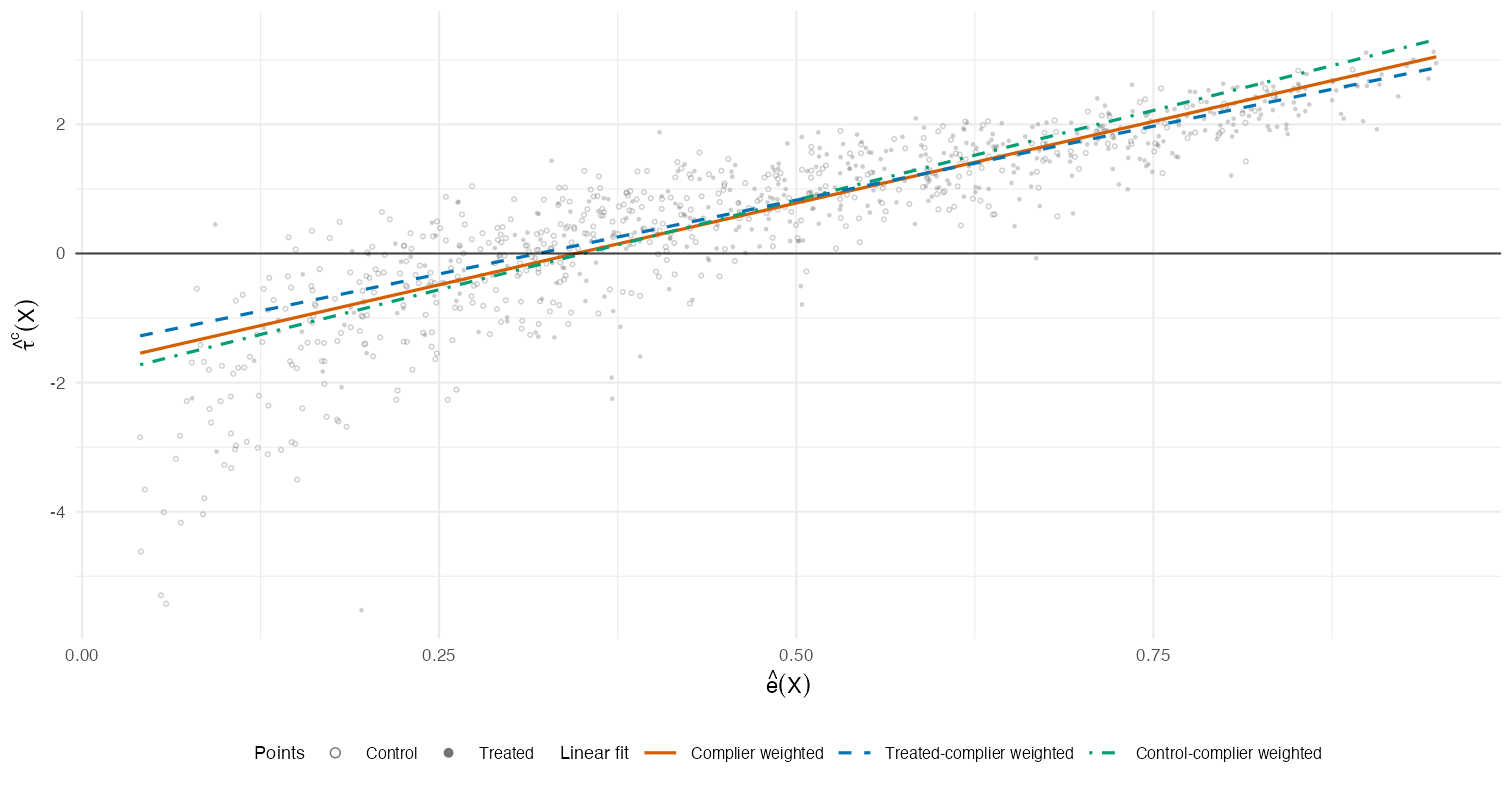
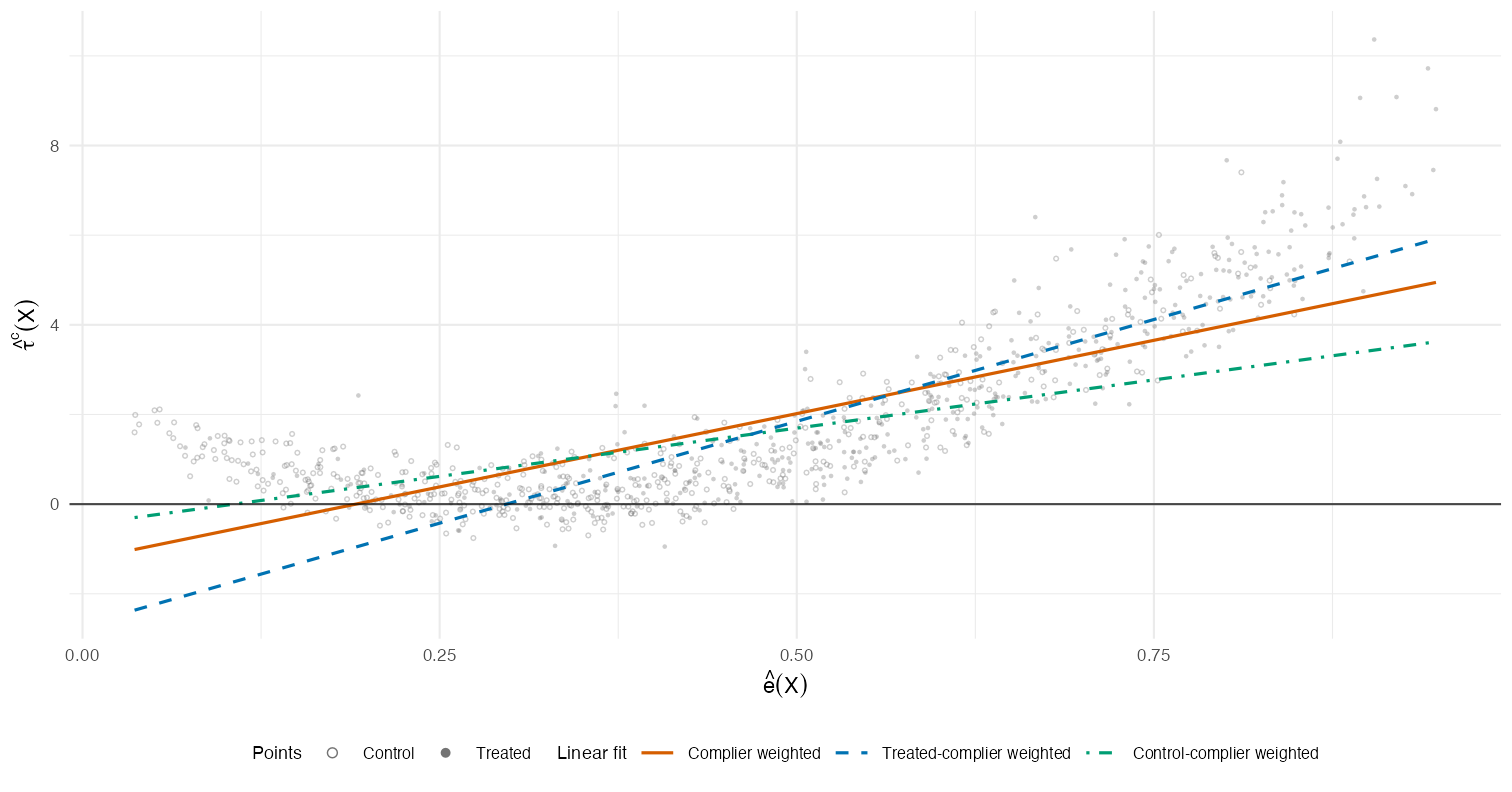
Improve API examples and site plots

diff --git a/docs/index.html b/docs/index.html
@@ -78,20 +78,22 @@ library(CPplot)</code></pre>
             If <code>y</code> is the outcome, <code>z</code> is the binary
             treatment, and <code>x</code> is a covariate, a CP plot can be
             drawn with <code>cp_plot(y ~ z + x, data = df)</code>. The example
-            below uses two covariates in the same way.
+            below uses three covariates in the same way.
           </p>
           <div class="tutorial-block">
             <div class="panel">
               <h3>Example</h3>
-              <pre><button class="copy" type="button">Copy</button><code>set.seed(1)
+<pre><button class="copy" type="button">Copy</button><code>set.seed(1)
 n <- 900
 df <- data.frame(x1 = rnorm(n), x2 = rnorm(n))
-df$z <- rbinom(n, 1, plogis(-0.30 + 1.05 * df$x1 - 0.45 * df$x2))
+p <- plogis(-0.30 + 1.05 * df$x1 - 0.45 * df$x2)
+df$x3 <- p^2
+df$z <- rbinom(n, 1, p)
+tau <- -0.20 + 1.20 * p + 5.00 * df$x3 + 0.70 * df$x2
 df$y <- 1 + 0.5 * df$x1 + 0.4 * df$x2 +
-  df$z * (0.5 + 1.4 * df$x1 - 0.6 * df$x2) +
-  rnorm(n, sd = 0.7)
+  df$z * tau + rnorm(n, sd = 0.5)
 
-fit <- cp_plot(y ~ z + x1 + x2, data = df)
+fit <- cp_plot(y ~ z + x1 + x2 + x3, data = df)
 fit$plot</code></pre>
             </div>
             <figure class="figure-panel">
@@ -107,16 +109,16 @@ fit$plot</code></pre>
             <pre><button class="copy" type="button">Copy</button><code>fit$slopes
 fit$bracketing</code></pre>
             <pre class="output"><code># fit$slopes
-               fit   n    slope  std_error p_value
-1       Unweighted 900 7.589266 0.04302250       0
-2 Treated weighted 900 7.415186 0.04216743       0
-3 Control weighted 900 7.750906 0.05294152       0
+               fit   n    slope  std_error       p_value
+1       Unweighted 900 5.101455 0.09159536 1.501789e-293
+2 Treated weighted 900 5.760079 0.09442888 1.304333e-321
+3 Control weighted 900 4.346009 0.10703058 1.776072e-205
 
 # fit$bracketing
                fit    slope slope_sign       implication
-1       Unweighted 7.589266   positive ATT &gt;= ATE &gt;= ATC
-2 Treated weighted 7.415186   positive        ATT &gt;= ATO
-3 Control weighted 7.750906   positive        ATO &gt;= ATC</code></pre>
+1       Unweighted 5.101455   positive ATT &gt;= ATE &gt;= ATC
+2 Treated weighted 5.760079   positive        ATT &gt;= ATO
+3 Control weighted 4.346009   positive        ATO &gt;= ATC</code></pre>
           </div>
         </section>
 
@@ -127,7 +129,7 @@ fit$bracketing</code></pre>
             <code>z</code> is the binary IV, and <code>x</code> is a covariate,
             a local CP plot can be drawn with
             <code>local_cp_plot(y ~ d + x | z + x, data = df)</code>. The
-            example below uses two covariates in the same way.
+            example below uses three covariates in the same way.
           </p>
           <div class="tutorial-block">
             <div class="panel">
@@ -135,12 +137,14 @@ fit$bracketing</code></pre>
               <pre><button class="copy" type="button">Copy</button><code>set.seed(2)
 n <- 900
 df <- data.frame(x1 = rnorm(n), x2 = rnorm(n))
-df$z <- rbinom(n, 1, plogis(-0.25 + 0.95 * df$x1 + 0.35 * df$x2))
+p <- plogis(-0.25 + 0.95 * df$x1 + 0.35 * df$x2)
+df$x3 <- p^2
+df$z <- rbinom(n, 1, p)
 df$d <- rbinom(n, 1, plogis(-0.8 + 1.2 * df$z + 0.4 * df$x1 - 0.2 * df$x2))
-tau <- 0.6 + 1.1 * df$x1 - 0.45 * df$x2
-df$y <- 1 + 0.4 * df$x1 - 0.2 * df$x2 + tau * df$d + rnorm(n, sd = 0.6)
+tau <- -0.20 + 1.20 * p + 5.00 * df$x3 + 0.70 * df$x2
+df$y <- 1 + 0.4 * df$x1 - 0.2 * df$x2 + tau * df$d + rnorm(n, sd = 0.5)
 
-fit <- local_cp_plot(y ~ d + x1 + x2 | z + x1 + x2, data = df)
+fit <- local_cp_plot(y ~ d + x1 + x2 + x3 | z + x1 + x2 + x3, data = df)
 fit$plot</code></pre>
             </div>
             <figure class="figure-panel">
@@ -158,15 +162,15 @@ fit$plot</code></pre>
 fit$bracketing</code></pre>
             <pre class="output"><code># fit$slopes
                         fit   n    slope  std_error       p_value
-1         Complier weighted 900 5.059980 0.09484783 1.188898e-280
-2 Treated-complier weighted 900 4.578982 0.08243187 9.440824e-293
-3 Control-complier weighted 900 5.552853 0.12264241 5.104692e-234
+1         Complier weighted 900 6.541203 0.1677583 2.216206e-195
+2 Treated-complier weighted 900 9.086877 0.1688588 3.131736e-283
+3 Control-complier weighted 900 4.304402 0.1737031 1.034667e-103
 
 # fit$bracketing
                         fit    slope slope_sign
-1         Complier weighted 5.059980   positive
-2 Treated-complier weighted 4.578982   positive
-3 Control-complier weighted 5.552853   positive
+1         Complier weighted 6.541203   positive
+2 Treated-complier weighted 9.086877   positive
+3 Control-complier weighted 4.304402   positive
                           implication
 1 tau_ATT^c &gt;= tau_ATE^c &gt;= tau_ATC^c
 2              tau_ATT^c &gt;= tau_ATO^c

diff --git a/docs/api.html b/docs/api.html
@@ -80,14 +80,30 @@
               <tr><td><code>title</code>, <code>alpha</code>, <code>point_size</code></td><td>Optional plot title and point styling.</td></tr>
             </tbody>
           </table>
-          <pre><button class="copy" type="button">Copy</button><code>fit <- cp_plot(y ~ z + x1 + x2, data = df)
-
-fit <- cp_plot(
+          <div class="example-modes">
+            <div class="mode-example">
+              <h3>Mode 1: estimate from a formula</h3>
+              <p>
+                Use this when the data contain the outcome, treatment, and
+                covariates, and you want CPplot to estimate <code>e_hat</code>
+                and <code>tau_hat</code>.
+              </p>
+              <pre><button class="copy" type="button">Copy</button><code>fit <- cp_plot(y ~ z + x1 + x2, data = df)</code></pre>
+            </div>
+            <div class="mode-example">
+              <h3>Mode 2: pass fitted inputs directly</h3>
+              <p>
+                Use this when you already have estimated propensity scores and
+                CATEs from your preferred model.
+              </p>
+              <pre><button class="copy" type="button">Copy</button><code>fit <- cp_plot(
   data = df,
   e_hat = "e_hat",
   tau_hat = "tau_hat",
   treatment = "z"
 )</code></pre>
+            </div>
+          </div>
         </section>
 
         <section id="local-cp-plot">
@@ -116,15 +132,30 @@ fit <- cp_plot(
               <tr><td><code>point_labels</code>, <code>title</code>, <code>alpha</code>, <code>point_size</code></td><td>Optional labels and styling.</td></tr>
             </tbody>
           </table>
-          <pre><button class="copy" type="button">Copy</button><code>fit <- local_cp_plot(y ~ d + x1 + x2 | z + x1 + x2, data = df)
-
-fit <- local_cp_plot(
+          <div class="example-modes">
+            <div class="mode-example">
+              <h3>Mode 1: estimate from a formula</h3>
+              <p>
+                Use this when the data contain the outcome, treatment, IV, and
+                covariates, and you want CPplot to estimate the local CP inputs.
+              </p>
+              <pre><button class="copy" type="button">Copy</button><code>fit <- local_cp_plot(y ~ d + x1 + x2 | z + x1 + x2, data = df)</code></pre>
+            </div>
+            <div class="mode-example">
+              <h3>Mode 2: pass fitted inputs directly</h3>
+              <p>
+                Use this when you already have estimated IV propensity scores,
+                conditional Wald estimates, and complier weights.
+              </p>
+              <pre><button class="copy" type="button">Copy</button><code>fit <- local_cp_plot(
   data = df,
   e_hat = "e_hat",
   tau_c_hat = "tau_c_hat",
   pi_c_hat = "pi_c_hat",
   iv = "z"
 )</code></pre>
+            </div>
+          </div>
         </section>
 
         <section id="return-value">

diff --git a/docs/styles.css b/docs/styles.css
@@ -412,6 +412,22 @@ td {
   margin: 14px 0;
 }
 
+.example-modes {
+  display: grid;
+  gap: 18px;
+  margin: 28px 0 0;
+}
+
+.mode-example h3 {
+  font-size: 18px;
+  margin: 0 0 6px;
+}
+
+.mode-example p {
+  color: var(--muted);
+  margin: 0 0 10px;
+}
+
 .callout {
   border-left: 4px solid var(--teal);
   background: var(--surface-soft);